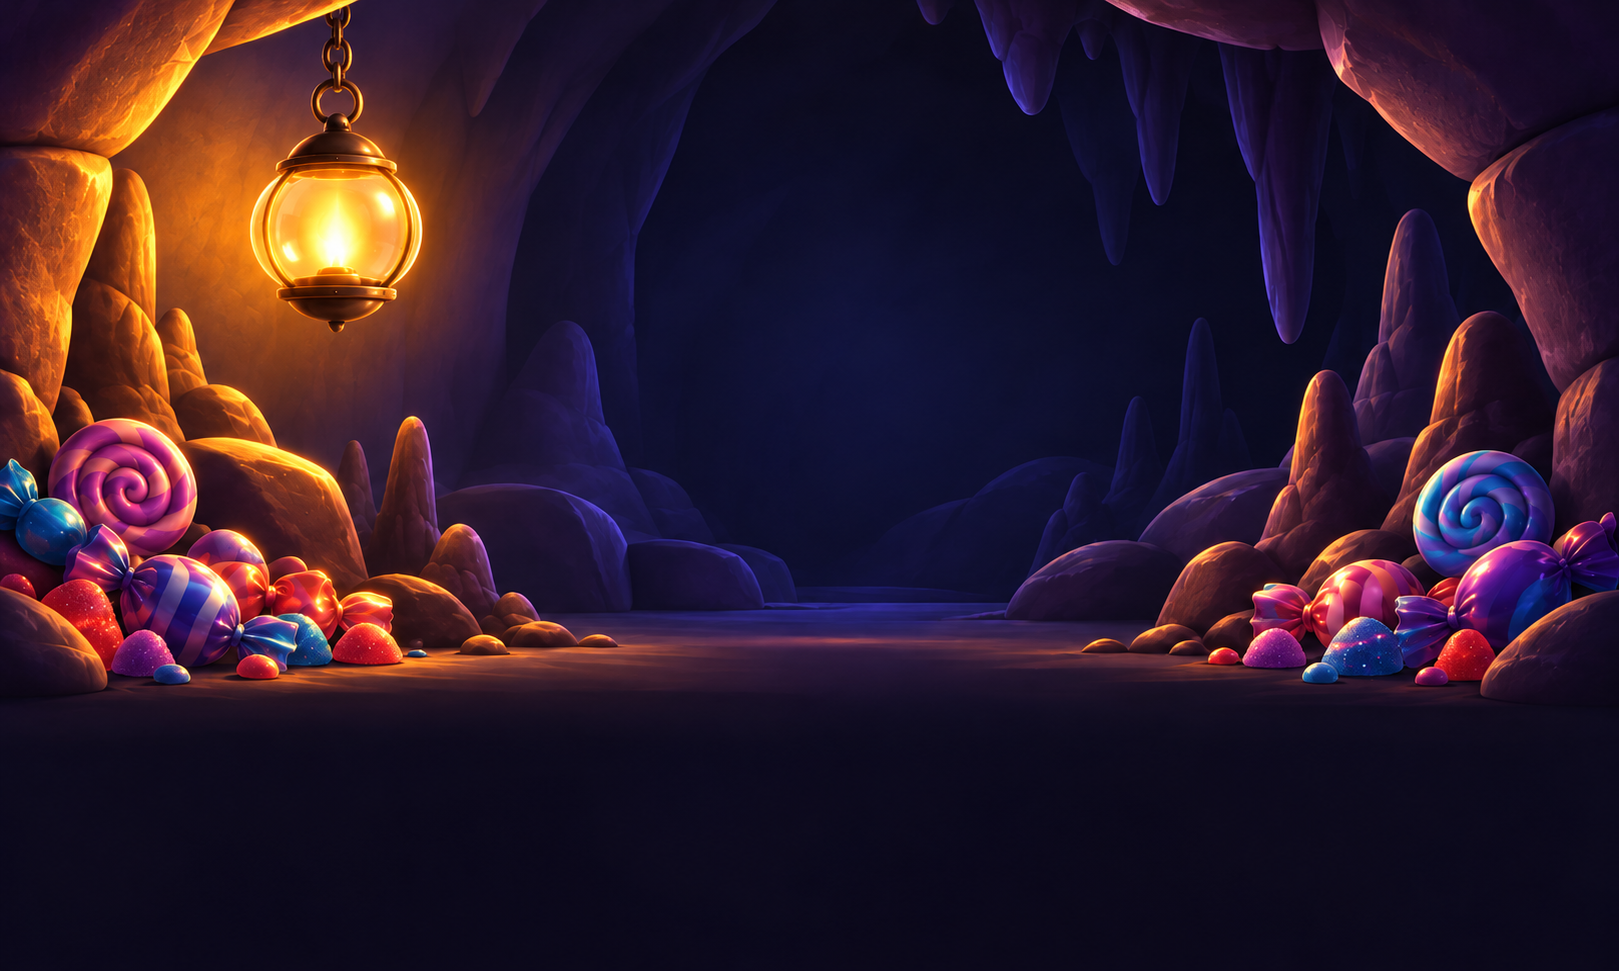
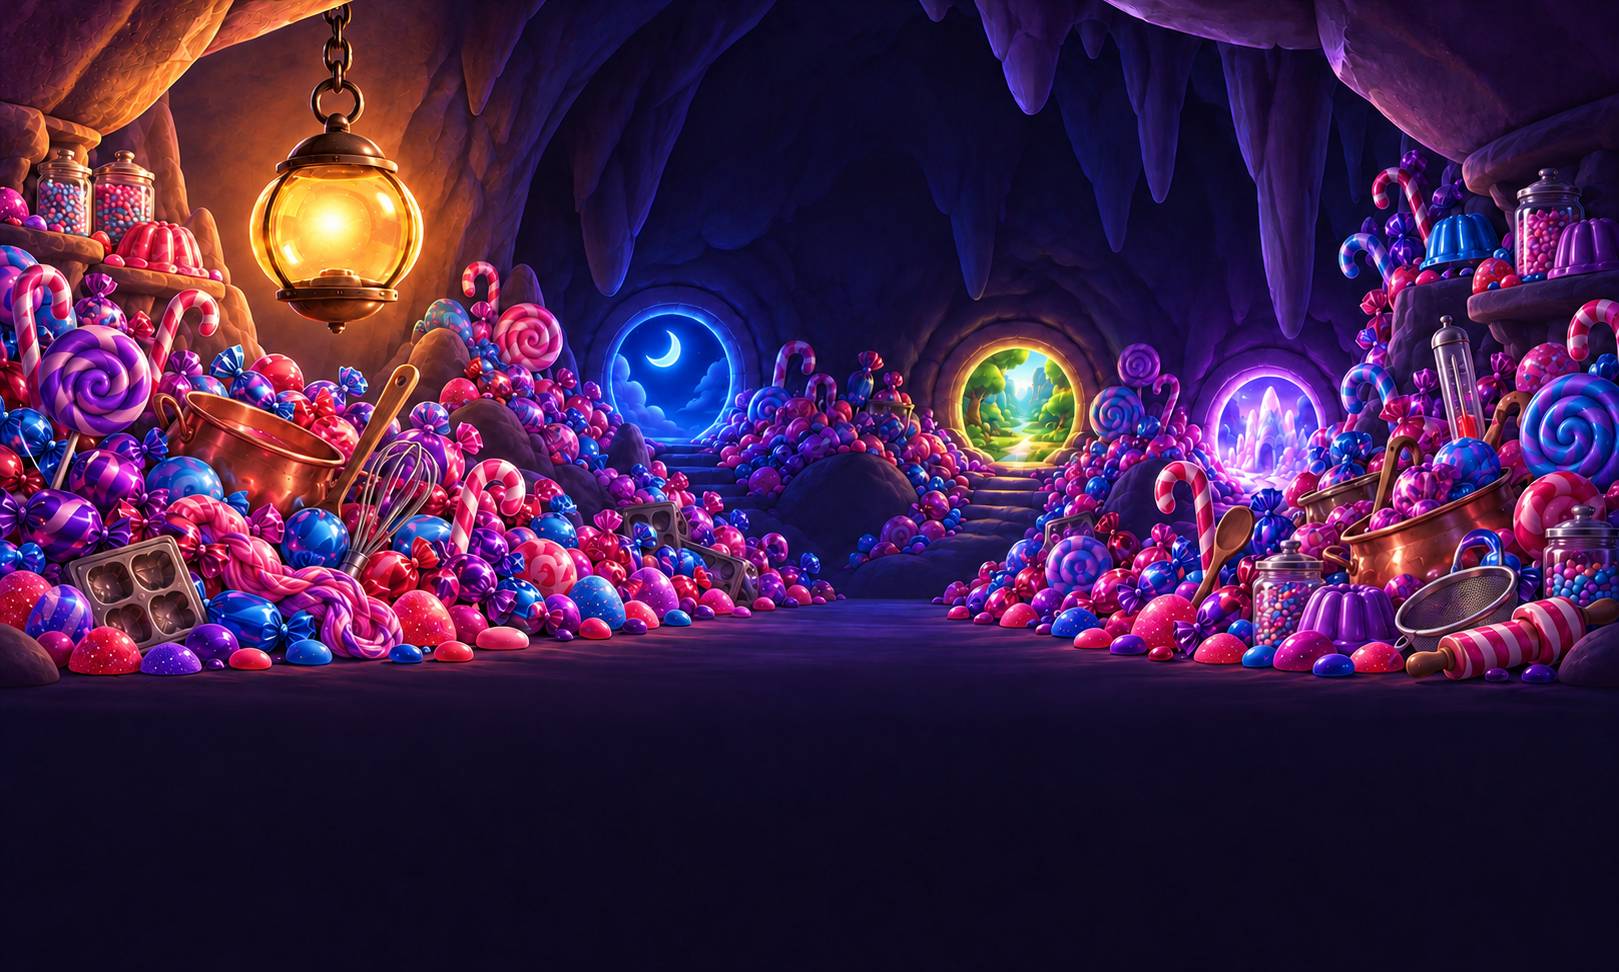
Cave re-take: portals and a full candy hoard (bg_cave, bg_cave_lit)
Owner-picked Codex still (round 2 "G"): three portals in the back wall,
candy cascading up both walls with candy-making tools as the hoard's
artifacts. Lit variant regenerated as an edit. 20 clips rebuilt and copied
to the card; storybook cave images refreshed. Review candidates and the
replaced stills are kept locally and git-ignored.

diff --git a/crystal_oracle/assets/ASSET-STATUS.md b/crystal_oracle/assets/ASSET-STATUS.md
@@ -1,6 +1,6 @@
 # Asset status - DRAGONGLOW - The Sleepy Candy Dragon
 
-Generated 2026-10-23 14:45 by `tools/build_assets.py` from `assets/manifest.json` (output: `sd_card`). Regenerated by every run - don't edit.
+Generated 2026-10-23 17:45 by `tools/build_assets.py` from `assets/manifest.json` (output: `sd_card`). Regenerated by every run - don't edit.
 
 States: **REAL** = built from your source file; **PLACEHOLDER** = test card / synth sound / Windows TTS (`--test-clips`, `--placeholders`); **MISSING** = nothing on the card - the firmware falls back to a built-in animation / chime (or silence for voice).
 
@@ -47,7 +47,7 @@ States: **REAL** = built from your source file; **PLACEHOLDER** = test card / sy
 
 | id | pri | kind | source | size | alpha | used by | description |
 |---|---|---|---|---|---|---|---|
-| bg_cave | MVP | background | bg_cave.png | 1619x971 | no | attract, attract_full, absorb, greet, greet_r5, charge, rev~ | The Hoard Cave at night (the main scene): a cozy rounded cave in deep~ |
+| bg_cave | MVP | background | bg_cave.png | 1619x972 | no | attract, attract_full, absorb, greet, greet_r5, charge, rev~ | The Hoard Cave at night (the main scene): a cozy rounded cave in deep~ |
 | bg_wakestone | MVP | background | bg_wakestone.png | 1619x971 | no | awaken, awaken_1, awaken_2, awaken_3, reveal_t2, reveal_t2_~ | The Wakestone: a deeper chamber of the cave framed by big soft rounde~ |
 | bg_starburst | MVP | background | bg_starburst.png | 1619x971 | no | reveal_t3, milestone | Golden Star burst: a blue-black night sky with about 12 broad, soft-e~ |
 | butterscotch_base | MVP | character | butterscotch_base.png | 1295x1214 | yes | charge, reveal_t0_2 | MASTER IMAGE. Butterscotch, a chubby, round old dragon shaped like a ~ |
@@ -63,7 +63,7 @@ States: **REAL** = built from your source file; **PLACEHOLDER** = test card / sy
 | prop_coin | MVP | prop | prop_coin.png | 1254x1254 | yes | reveal_t0_1, reveal_t1 | HOARD COIN: a big round shiny SILVER candy coin (#D9DEE8), like a cho~ |
 | prop_gem | MVP | prop | prop_gem.png | 1254x1254 | yes | reveal_t2, reveal_t2_2 | DRAGON GEM: a big ruby-red (#FF3B47) gem cut as a clear TRIANGLE (poi~ |
 | prop_star | MVP | prop | prop_star.png | 1254x1254 | yes | reveal_t3 | GOLDEN STAR: a chunky glossy gold (#FFC83D) five-point star with roun~ |
-| bg_cave_lit | NICE | background | bg_cave_lit.png | 1619x971 | no | attract_full, moonfull, chapter_a, chapter_b, chapter_e | Edit of bg_cave: the Hoard Beacon now BLAZES warm amber (#FFB347) wit~ |
+| bg_cave_lit | NICE | background | bg_cave_lit.png | 1619x972 | no | attract_full, moonfull, chapter_a, chapter_b, chapter_e | Edit of bg_cave: the Hoard Beacon now BLAZES warm amber (#FFB347) wit~ |
 | butterscotch_yawn | NICE | character | butterscotch_yawn.png | 1295x1214 | yes | sleepy | Edit of butterscotch_base: a big sleepy yawn - round open mouth (no t~ |
 | butterscotch_wink | NICE | character | butterscotch_wink.png | 1295x1214 | yes | replay, keeper | Edit of butterscotch_base (pose edit 1 of 2): his right paw raised to~ |
 | butterscotch_wave | NICE | character | butterscotch_wave.png | 1293x1217 | yes | goodbye | Edit of butterscotch_base (pose edit 2 of 2): his right paw raised hi~ |
@@ -81,37 +81,37 @@ States: **REAL** = built from your source file; **PLACEHOLDER** = test card / sy
 
 | id | pri | recipe | inputs | output | state | info |
 |---|---|---|---|---|---|---|
-| attract | MVP | layers | bg bg_cave, butterscotch_sleep, butterscotch_peek, butterscotch_sleep, snuffwic~ | oracle/clips/attract.omj | REAL | 156 fr, 12.0 s, max 33.4 KB, 4.83 MB total, q5 |
-| absorb | MVP | layers | bg bg_cave, butterscotch_peek, butterscotch_surprise | oracle/clips/absorb.omj | REAL | 13 fr, 1.0 s, max 32.3 KB, 411.6 KB total, q5 |
+| attract | MVP | layers | bg bg_cave, butterscotch_sleep, butterscotch_peek, butterscotch_sleep, snuffwic~ | oracle/clips/attract.omj | REAL | 156 fr, 12.0 s, max 67.1 KB, 10.06 MB total, q5 |
+| absorb | MVP | layers | bg bg_cave, butterscotch_peek, butterscotch_surprise | oracle/clips/absorb.omj | REAL | 13 fr, 1.0 s, max 66.3 KB, 857.4 KB total, q5 |
 | awaken | MVP | layers | bg bg_wakestone, prop_crystal, butterscotch_surprise, butterscotch_delight | oracle/clips/awaken.omj | REAL | 104 fr, 8.0 s, max 28.6 KB, 2.63 MB total, q5 |
 | awaken_1 | MVP | layers | bg bg_wakestone, prop_crystal, butterscotch_surprise, butterscotch_delight | oracle/clips/awaken_1.omj | REAL | 104 fr, 8.0 s, max 28.1 KB, 2.58 MB total, q5 |
 | awaken_2 | MVP | layers | bg bg_wakestone, prop_crystal, butterscotch_surprise, butterscotch_delight | oracle/clips/awaken_2.omj | REAL | 104 fr, 8.0 s, max 28.5 KB, 2.62 MB total, q5 |
 | awaken_3 | MVP | layers | bg bg_wakestone, prop_crystal, butterscotch_surprise, butterscotch_delight | oracle/clips/awaken_3.omj | REAL | 104 fr, 8.0 s, max 28.6 KB, 2.63 MB total, q5 |
-| greet | MVP | layers | bg bg_cave, butterscotch_delight | oracle/clips/greet.omj | REAL | 52 fr, 4.0 s, max 31.0 KB, 1.57 MB total, q5 |
-| charge | MVP | layers | bg bg_cave, butterscotch_base | oracle/clips/charge.omj | REAL | 52 fr, 4.0 s, max 32.1 KB, 1.63 MB total, q5 |
-| reveal_t0_1 | MVP | layers | bg bg_cave, butterscotch_surprise, butterscotch_giggle, snuffwick_chicken, snuf~ | oracle/clips/reveal_t0_1.omj | REAL | 32 fr, 2.5 s, max 34.1 KB, 1.02 MB total, q5 |
-| reveal_t0_2 | MVP | layers | bg bg_cave, snuffwick_base, butterscotch_base, butterscotch_puff, butterscotch_~ | oracle/clips/reveal_t0_2.omj | REAL | 32 fr, 2.5 s, max 35.3 KB, 1.03 MB total, q5 |
-| reveal_t0_3 | MVP | layers | bg_cave, bg_cave, butterscotch_surprise, butterscotch_puff, butterscotch_giggle~ | oracle/clips/reveal_t0_3.omj | REAL | 32 fr, 2.5 s, max 33.9 KB, 739.2 KB total, q5 |
-| reveal_t1 | MVP | layers | bg bg_cave, butterscotch_delight, prop_coin | oracle/clips/reveal_t1.omj | REAL | 32 fr, 2.5 s, max 32.9 KB, 1002.1 KB total, q5 |
+| greet | MVP | layers | bg bg_cave, butterscotch_delight | oracle/clips/greet.omj | REAL | 52 fr, 4.0 s, max 65.9 KB, 3.33 MB total, q5 |
+| charge | MVP | layers | bg bg_cave, butterscotch_base | oracle/clips/charge.omj | REAL | 52 fr, 4.0 s, max 66.9 KB, 3.38 MB total, q5 |
+| reveal_t0_1 | MVP | layers | bg bg_cave, butterscotch_surprise, butterscotch_giggle, snuffwick_chicken, snuf~ | oracle/clips/reveal_t0_1.omj | REAL | 32 fr, 2.5 s, max 66.8 KB, 2.07 MB total, q5 |
+| reveal_t0_2 | MVP | layers | bg bg_cave, snuffwick_base, butterscotch_base, butterscotch_puff, butterscotch_~ | oracle/clips/reveal_t0_2.omj | REAL | 32 fr, 2.5 s, max 68.6 KB, 2.11 MB total, q5 |
+| reveal_t0_3 | MVP | layers | bg_cave, bg_cave, butterscotch_surprise, butterscotch_puff, butterscotch_giggle~ | oracle/clips/reveal_t0_3.omj | REAL | 32 fr, 2.5 s, max 66.8 KB, 1.46 MB total, q5 |
+| reveal_t1 | MVP | layers | bg bg_cave, butterscotch_delight, prop_coin | oracle/clips/reveal_t1.omj | REAL | 32 fr, 2.5 s, max 67.4 KB, 2.07 MB total, q5 |
 | reveal_t2 | MVP | layers | bg bg_wakestone, butterscotch_surprise, prop_gem | oracle/clips/reveal_t2.omj | REAL | 32 fr, 2.5 s, max 28.6 KB, 872.6 KB total, q5 |
 | reveal_t3 | MVP | layers | bg bg_starburst, prop_star, butterscotch_delight | oracle/clips/reveal_t3.omj | REAL | 39 fr, 3.0 s, max 24.0 KB, 882.9 KB total, q5 |
-| replay | MVP | layers | bg bg_cave, butterscotch_wink (or butterscotch_peek) | oracle/clips/replay.omj | REAL | 52 fr, 4.0 s, max 32.4 KB, 1.64 MB total, q5 |
-| nocrystal | MVP | layers | bg bg_cave, butterscotch_puff, butterscotch_delight | oracle/clips/nocrystal.omj | REAL | 46 fr, 3.5 s, max 32.2 KB, 1.41 MB total, q5 |
-| sleepy | MVP | layers | bg bg_cave, butterscotch_yawn (or butterscotch_sleep) | oracle/clips/sleepy.omj | REAL | 52 fr, 4.0 s, max 32.4 KB, 1.64 MB total, q5 |
-| goodbye | MVP | layers | bg bg_cave, butterscotch_wave (or butterscotch_delight) | oracle/clips/goodbye.omj | REAL | 21 fr, 1.6 s, max 32.3 KB, 610.2 KB total, q5 |
+| replay | MVP | layers | bg bg_cave, butterscotch_wink (or butterscotch_peek) | oracle/clips/replay.omj | REAL | 52 fr, 4.0 s, max 66.8 KB, 3.38 MB total, q5 |
+| nocrystal | MVP | layers | bg bg_cave, butterscotch_puff, butterscotch_delight | oracle/clips/nocrystal.omj | REAL | 46 fr, 3.5 s, max 66.4 KB, 2.97 MB total, q5 |
+| sleepy | MVP | layers | bg bg_cave, butterscotch_yawn (or butterscotch_sleep) | oracle/clips/sleepy.omj | REAL | 52 fr, 4.0 s, max 66.8 KB, 3.38 MB total, q5 |
+| goodbye | MVP | layers | bg bg_cave, butterscotch_wave (or butterscotch_delight) | oracle/clips/goodbye.omj | REAL | 21 fr, 1.6 s, max 71.1 KB, 1.41 MB total, q5 |
 | milestone | MVP | layers | bg bg_starburst, butterscotch_delight | oracle/clips/milestone.omj | REAL | 39 fr, 3.0 s, max 23.6 KB, 902.5 KB total, q5 |
 | circle | MVP | layers | bg bg_wakestone, butterscotch_giggle | oracle/clips/circle.omj | REAL | 32 fr, 2.5 s, max 30.2 KB, 890.9 KB total, q5 |
-| attract_full | NICE | layers | bg bg_cave_lit (or bg_cave), butterscotch_sleep, butterscotch_delight (or butte~ | oracle/clips/attract_full.omj | REAL | 156 fr, 12.0 s, max 44.4 KB, 6.56 MB total, q5 |
-| greet_r5 | NICE | layers | bg bg_cave, butterscotch_delight, prop_hat | oracle/clips/greet_r5.omj | REAL | 46 fr, 3.5 s, max 32.7 KB, 1.43 MB total, q5 |
+| attract_full | NICE | layers | bg bg_cave_lit (or bg_cave), butterscotch_sleep, butterscotch_delight (or butte~ | oracle/clips/attract_full.omj | REAL | 156 fr, 12.0 s, max 72.1 KB, 10.86 MB total, q5 |
+| greet_r5 | NICE | layers | bg bg_cave, butterscotch_delight, prop_hat | oracle/clips/greet_r5.omj | REAL | 46 fr, 3.5 s, max 67.2 KB, 2.98 MB total, q5 |
 | reveal_t2_2 | NICE | layers | bg bg_wakestone, butterscotch_surprise, butterscotch_delight, prop_gem | oracle/clips/reveal_t2_2.omj | REAL | 32 fr, 2.5 s, max 28.0 KB, 873.8 KB total, q5 |
-| keeper | NICE | layers | bg bg_cave, butterscotch_wink (or butterscotch_peek) | oracle/clips/keeper.omj | REAL | 32 fr, 2.5 s, max 33.2 KB, 1.00 MB total, q5 |
-| moonfull | NICE | layers | bg bg_cave, butterscotch_delight, butterscotch_giggle, snuffwick_sneeze (or snu~ | oracle/clips/moonfull.omj | REAL | 91 fr, 7.0 s, max 44.6 KB, 3.47 MB total, q5 |
-| chapter_a | NICE | layers | bg bg_cave_lit (or bg_cave), butterscotch_sleep, butterscotch_delight | oracle/clips/chapter_a.omj | REAL | 58 fr, 4.5 s, max 43.2 KB, 2.38 MB total, q5 |
-| chapter_b | NICE | layers | bg bg_cave_lit (or bg_cave), bg_cave, butterscotch_sleep, snuffwick_base, snuff~ | oracle/clips/chapter_b.omj | REAL | 65 fr, 5.0 s, max 45.0 KB, 2.42 MB total, q5 |
+| keeper | NICE | layers | bg bg_cave, butterscotch_wink (or butterscotch_peek) | oracle/clips/keeper.omj | REAL | 32 fr, 2.5 s, max 66.8 KB, 2.06 MB total, q5 |
+| moonfull | NICE | layers | bg bg_cave, butterscotch_delight, butterscotch_giggle, snuffwick_sneeze (or snu~ | oracle/clips/moonfull.omj | REAL | 91 fr, 7.0 s, max 72.2 KB, 6.13 MB total, q5 |
+| chapter_a | NICE | layers | bg bg_cave_lit (or bg_cave), butterscotch_sleep, butterscotch_delight | oracle/clips/chapter_a.omj | REAL | 58 fr, 4.5 s, max 71.8 KB, 4.02 MB total, q5 |
+| chapter_b | NICE | layers | bg bg_cave_lit (or bg_cave), bg_cave, butterscotch_sleep, snuffwick_base, snuff~ | oracle/clips/chapter_b.omj | REAL | 65 fr, 5.0 s, max 71.8 KB, 4.39 MB total, q5 |
 | chapter_c | NICE | kenburns | chapter_egg | oracle/clips/chapter_c.omj | REAL | 58 fr, 4.5 s, max 49.6 KB, 2.70 MB total, q5 |
 | chapter_d | NICE | layers | bg bg_wakestone, prop_crystal, prop_crystal, prop_crystal | oracle/clips/chapter_d.omj | REAL | 58 fr, 4.5 s, max 21.9 KB, 1.23 MB total, q5 |
-| chapter_e | NICE | layers | bg bg_cave, butterscotch_peek, butterscotch_delight | oracle/clips/chapter_e.omj | REAL | 58 fr, 4.5 s, max 42.4 KB, 1.95 MB total, q5 |
-| chapter_f | NICE | layers | bg bg_cave, butterscotch_peek, snuffwick_sock (or snuffwick_base) | oracle/clips/chapter_f.omj | REAL | 65 fr, 5.0 s, max 33.0 KB, 1.98 MB total, q5 |
+| chapter_e | NICE | layers | bg bg_cave, butterscotch_peek, butterscotch_delight | oracle/clips/chapter_e.omj | REAL | 58 fr, 4.5 s, max 71.3 KB, 3.81 MB total, q5 |
+| chapter_f | NICE | layers | bg bg_cave, butterscotch_peek, snuffwick_sock (or snuffwick_base) | oracle/clips/chapter_f.omj | REAL | 65 fr, 5.0 s, max 67.4 KB, 4.16 MB total, q5 |
 
 ## Voice (`assets/source/voice/<id>.wav|mp3|m4a...` -> `/oracle/voice`)
 

diff --git a/PROJECT-NOTES.md b/PROJECT-NOTES.md
@@ -43,6 +43,17 @@ Read `crystal_oracle/README.md` first, then `crystal_oracle/docs/DESIGN.md` (con
   2027-01-06) → stills from ChatGPT + our ffmpeg "layers" animator; voice from ElevenLabs/OpenAI TTS.
 
 ### Changelog
+- **2026-10-23 (cave re-take: portals + candy hoard)** — owner: with the Moonstone replaced by the crystal egg,
+  the lair needs portals (like `chapter_egg`) and a real dragon hoard made of candy + candy-making tools
+  instead of gold/gems/artifacts. Two rounds of 4 candidates each via `tools/make_image_codex.py`
+  (`start` ×4 in parallel, ~50 s each, refs `bg_cave` + `chapter_egg`, then the chosen D as ref):
+  owner picked **D** (three portals deep in the back wall, lantern corner clear) then **G** of the fuller
+  round (candy cascades up both walls, jar/mould shelves cut into the rock, copper kettles, whisk, taffy,
+  lollipop signposts). Installed as `bg_cave.png`; `bg_cave_lit.png` regenerated as a Codex edit of it
+  (beacon only). Old stills kept as `*.png.old`, candidates in `assets/source/images/review-cave-2026-10-23/`
+  (both git-ignored). `build_assets.py` rebuilt the 20 clips that use the cave; all 20 copied to the card
+  (E:, sizes verified). Storybook `site/img/bg_cave*.webp` refreshed (live immediately). The left jar shelf
+  sits under the painted beacon glow by design (owner accepted).
 - **2026-10-23 (Codex image helper)** — **`crystal_oracle/tools/make_image_codex.py`**: generates stills on
   the owner's ChatGPT plan through the Codex CLI that ships inside the Codex Store app (`codex.exe` in the
   app package, found via `Get-AppxPackage OpenAI.Codex`; ChatGPT plans don't cover the OpenAI API, Codex
